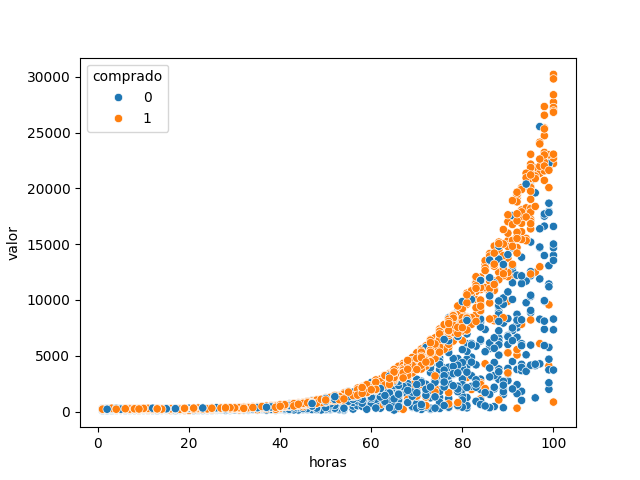
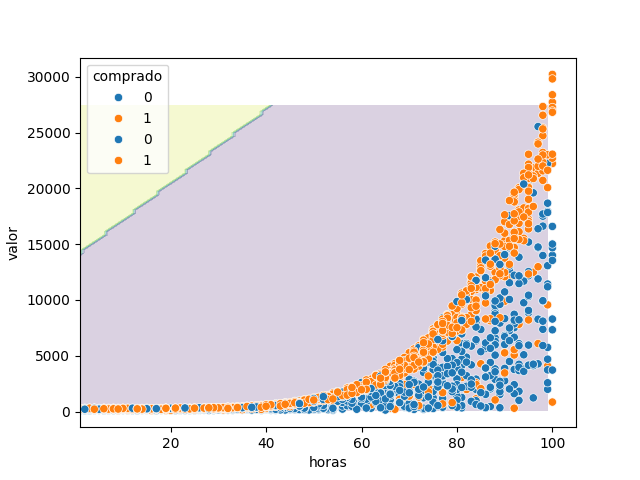
corrigindo estimador, exemplo de ia nao adequada demo_four

diff --git a/ia_demo_four.py b/ia_demo_four.py
@@ -1,66 +1,75 @@
 from sklearn.svm import LinearSVC
-from sklearn.metrics import accuracy_score
 from sklearn.model_selection import train_test_split
+from sklearn.metrics import accuracy_score
 import pandas as pd
 import seaborn as sns
 import matplotlib.pyplot as plt
 import numpy as np
 
-#tentativa de previsão de projeto finalizado de acordo com um historico em csv 
-
 
 url = "https://gist.githubusercontent.com/guilhermesilveira/1b7d5475863c15f484ac495bd70975cf/raw/16aff7a0aee67e7c100a2a48b676a2d2d142f646/projects.csv"
-
 url_info = pd.read_csv(url)
 
-
 rename_info = {
-    "unfinished" : "nao_terminados",
-    "expected_hours" : "espectativa_horas",
+    "unfinished" : "nao_comprado",
+    "expected_hours" : "horas",
     "price" : "valor"
 }
 
 url_info = url_info.rename(columns=rename_info)
+
 
 troca = {
     0 : 1,
     1 : 0
 }
 
+url_info["comprado"] = url_info["nao_comprado"].map(troca)
 
-url_info["finalizados"] = url_info.nao_terminados.map(troca)
-
-
-sns.scatterplot(x = "espectativa_horas", y = "valor", data = url_info, hue = "finalizados")
-
-plt.savefig("grafico.png")
-
-
-zero_one = sns.FacetGrid(data=url_info,hue="finalizados", col="finalizados")
-zero_one.map(sns.scatterplot, "espectativa_horas", "valor" )
-plt.savefig("comparacao")
-
-
-sucess = url_info[["finalizados"]]
-
-unsucess = url_info[["nao_terminados"]]
-
-data = url_info[["espectativa_horas", "valor"]]
-
+info_x = url_info[["horas", "valor"]]
+info_y = url_info[["comprado"]]
 seed = 20
+treino_x, teste_x, treino_y, teste_y = train_test_split(info_x, info_y, test_size=0.25, random_state=seed, stratify=info_y)
 
-treino_x, teste_x, treino_y, teste_y = train_test_split(data, sucess, test_size=0.25, random_state=seed, stratify=sucess)
+estudo = LinearSVC(random_state=seed)
+estudo.fit(treino_x, treino_y)
+chute_bot = estudo.predict(teste_x)
+chute_comparacao = np.ones(540)
 
-model = LinearSVC()
+acerto_bot = accuracy_score(chute_bot, teste_y)
+acerto_comparacao = accuracy_score(chute_comparacao, teste_y)
 
-model.fit(treino_x, treino_y)
+print(f"O bot acertou {acerto_bot} e tem que superar {acerto_comparacao}")
 
-analis = model.predict(teste_x)
+x_min = teste_x.horas.min()
+x_max = teste_x.horas.max()
+y_min = teste_x.valor.min()
+y_max = teste_x.valor.max()
 
-print(accuracy_score(analis, teste_y))
+pixel = 100
+eixo_x = np.arange(x_min, x_max, (x_max - x_min) / pixel)
+eixo_y = np.arange(y_min, y_max, (y_max - y_min) / pixel)
+xx, yy = np.meshgrid(eixo_x, eixo_y)
+pontos = np.c_[xx.ravel(), yy.ravel()]
 
-previ_base = np.ones(540)
+z = estudo.predict(pontos)
+z = z.reshape(xx.shape)
+print(z)
 
-chute = accuracy_score(analis, previ_base)
+sns.scatterplot(y="valor", x="horas",  hue=teste_y.values.flatten(), data=teste_x)
+plt.savefig("estudo_3")
 
-print(f"meta a superar {chute}")
+
+plt.scatter(teste_x.horas, teste_x.valor, c=teste_y.values.flatten(), s=1)
+plt.contourf(xx, yy, z, alpha=0.2)
+plt.savefig("mygod.png")
+
+sns.scatterplot(x="horas", y="valor", data=url_info, hue="comprado")
+plt.savefig("prova_1.png")
+
+double = sns.FacetGrid(data=url_info, hue="comprado", col="comprado")
+double.map(sns.scatterplot, "horas", "valor")
+plt.savefig("prova_2_tentativa.png")
+
+
+
